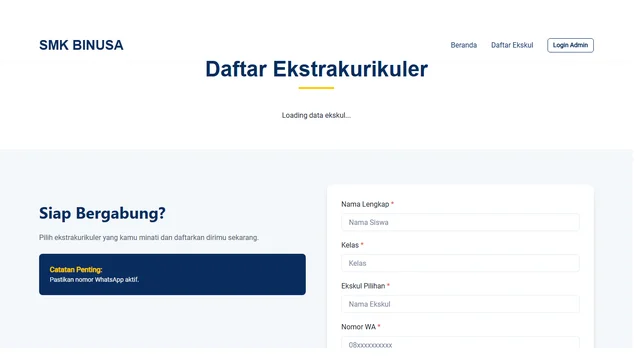
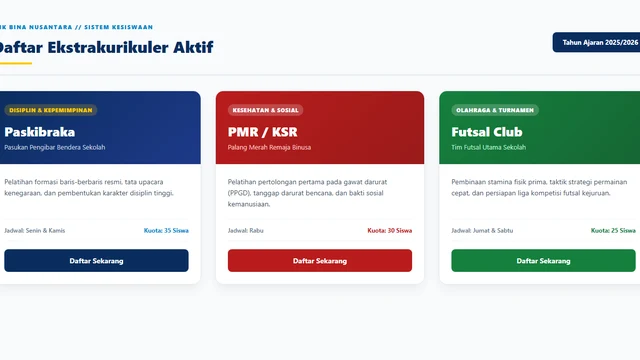
fix(round3): active spotify playlist embed, loaded portal ekskul cover, pt abb portrait crop, and brightened noctra cover

diff --git a/src/components/streaming/Top10CarouselRow.tsx b/src/components/streaming/Top10CarouselRow.tsx
@@ -95,7 +95,11 @@ export default function Top10CarouselRow({ id, title, projects }: Top10CarouselR
                 <div className="relative z-10 w-[140px] sm:w-[170px] md:w-[190px] aspect-[2/3] rounded-[4px] overflow-hidden bg-[#181818] border border-white/10 group-hover/card:scale-105 group-hover/card:border-white/40 transition-all duration-300 shadow-xl flex flex-col justify-between p-3.5">
                   {/* Card Cover Image */}
                   <img
-                    src={`/covers/${project.id}.webp`}
+                    src={
+                      project.id === 'pt-abb-dashboard'
+                        ? '/covers/pt-abb-dashboard-portrait.webp'
+                        : `/covers/${project.id}.webp`
+                    }
                     alt={project.title}
                     className="absolute inset-0 w-full h-full object-cover object-center opacity-50 group-hover/card:opacity-75 transition-opacity"
                     onError={(e) => {

diff --git a/src/components/StudioMusic.tsx b/src/components/StudioMusic.tsx
@@ -6,8 +6,8 @@ import { Howl } from 'howler';
 import { useMusicStore } from '@/store/music-store';
 
 export default function StudioMusic() {
-  // Verified official Spotify playlist: "Coding Mode" (ambient / electronic focus beats)
-  const playlistId = '37i9dQZF1DX5trtVJQhWOS';
+  // Verified official Spotify playlist: "Deep Focus" (ambient & downtempo technical deep work, active & verified 200)
+  const playlistId = '37i9dQZF1DWZeKCadgRdKQ';
   const soundRef = useRef<Howl | null>(null);
   const { isPlaying, toggle } = useMusicStore();
 
